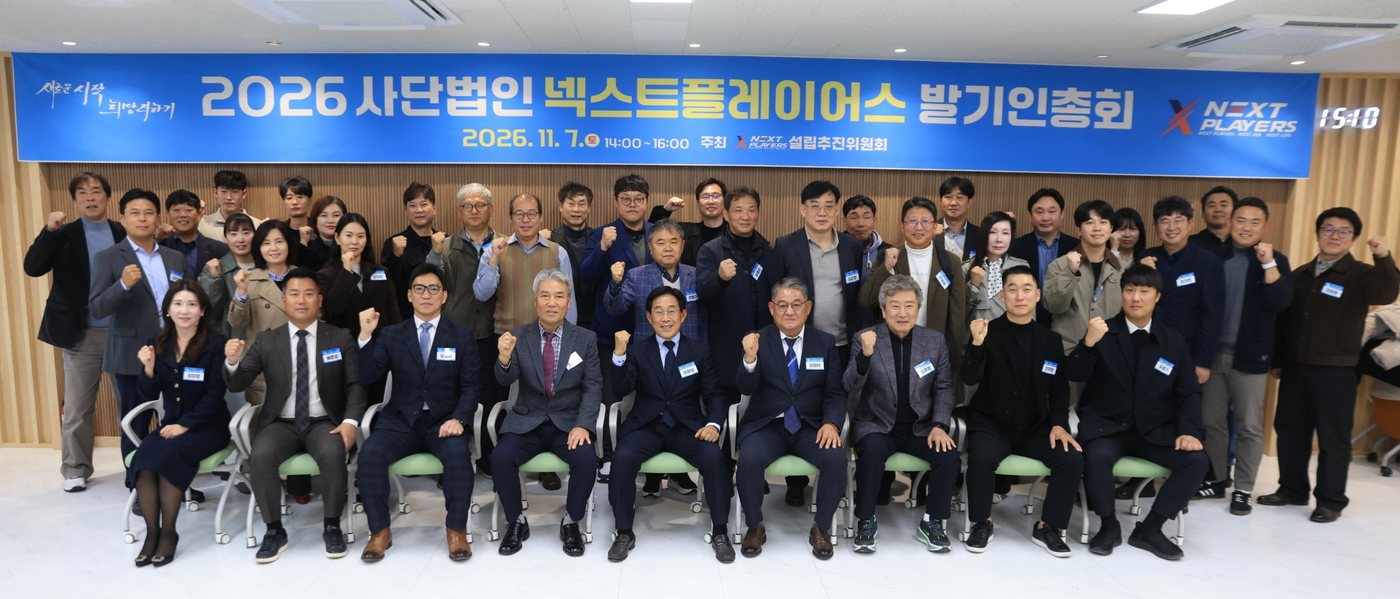
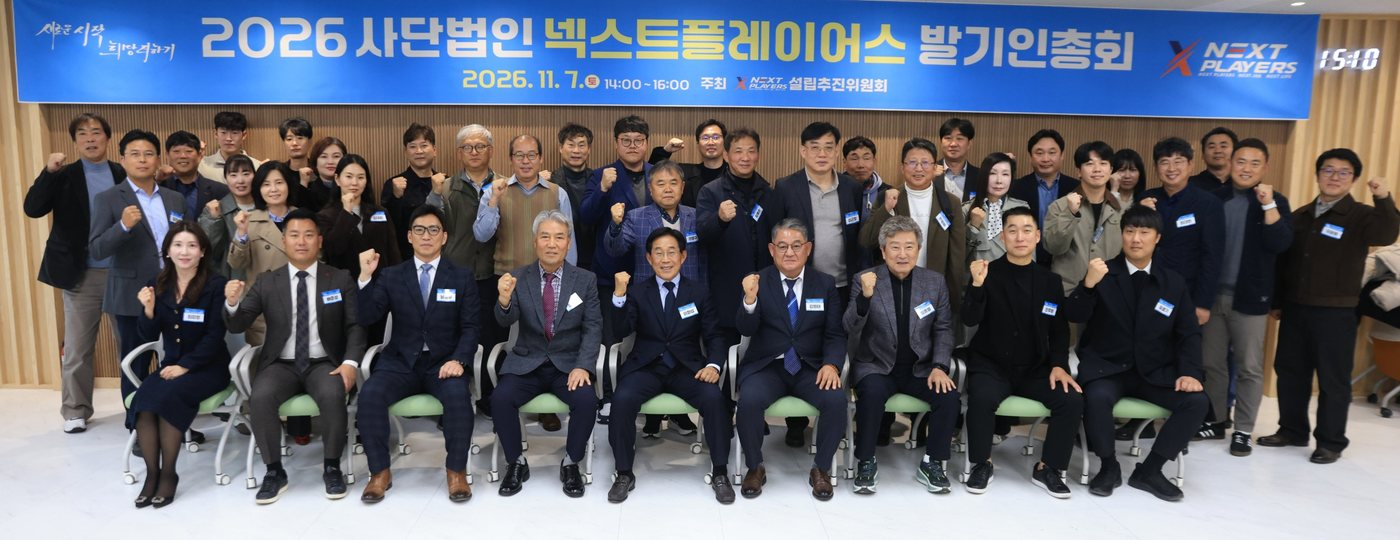
Add files via upload

diff --git a/index.html b/index.html
@@ -208,7 +208,7 @@ footer{background:#0a1e30;color:rgba(255,255,255,.65);padding:56px 5% 30px}
       </div>
     </div>
     <figure class="hero-photo">
-      <img src="hero-group.jpg" alt="2026 넥스트플레이어스 발기인총회 단체사진 (2026.11.7.)" width="1400" height="599">
+      <img src="hero-group.jpg" alt="2026 넥스트플레이어스 발기인총회 단체사진 (2026.11.7.)" width="1400" height="540">
       <figcaption>2026. 11. 7. 넥스트플레이어스 발기인총회</figcaption>
     </figure>
   </div>
